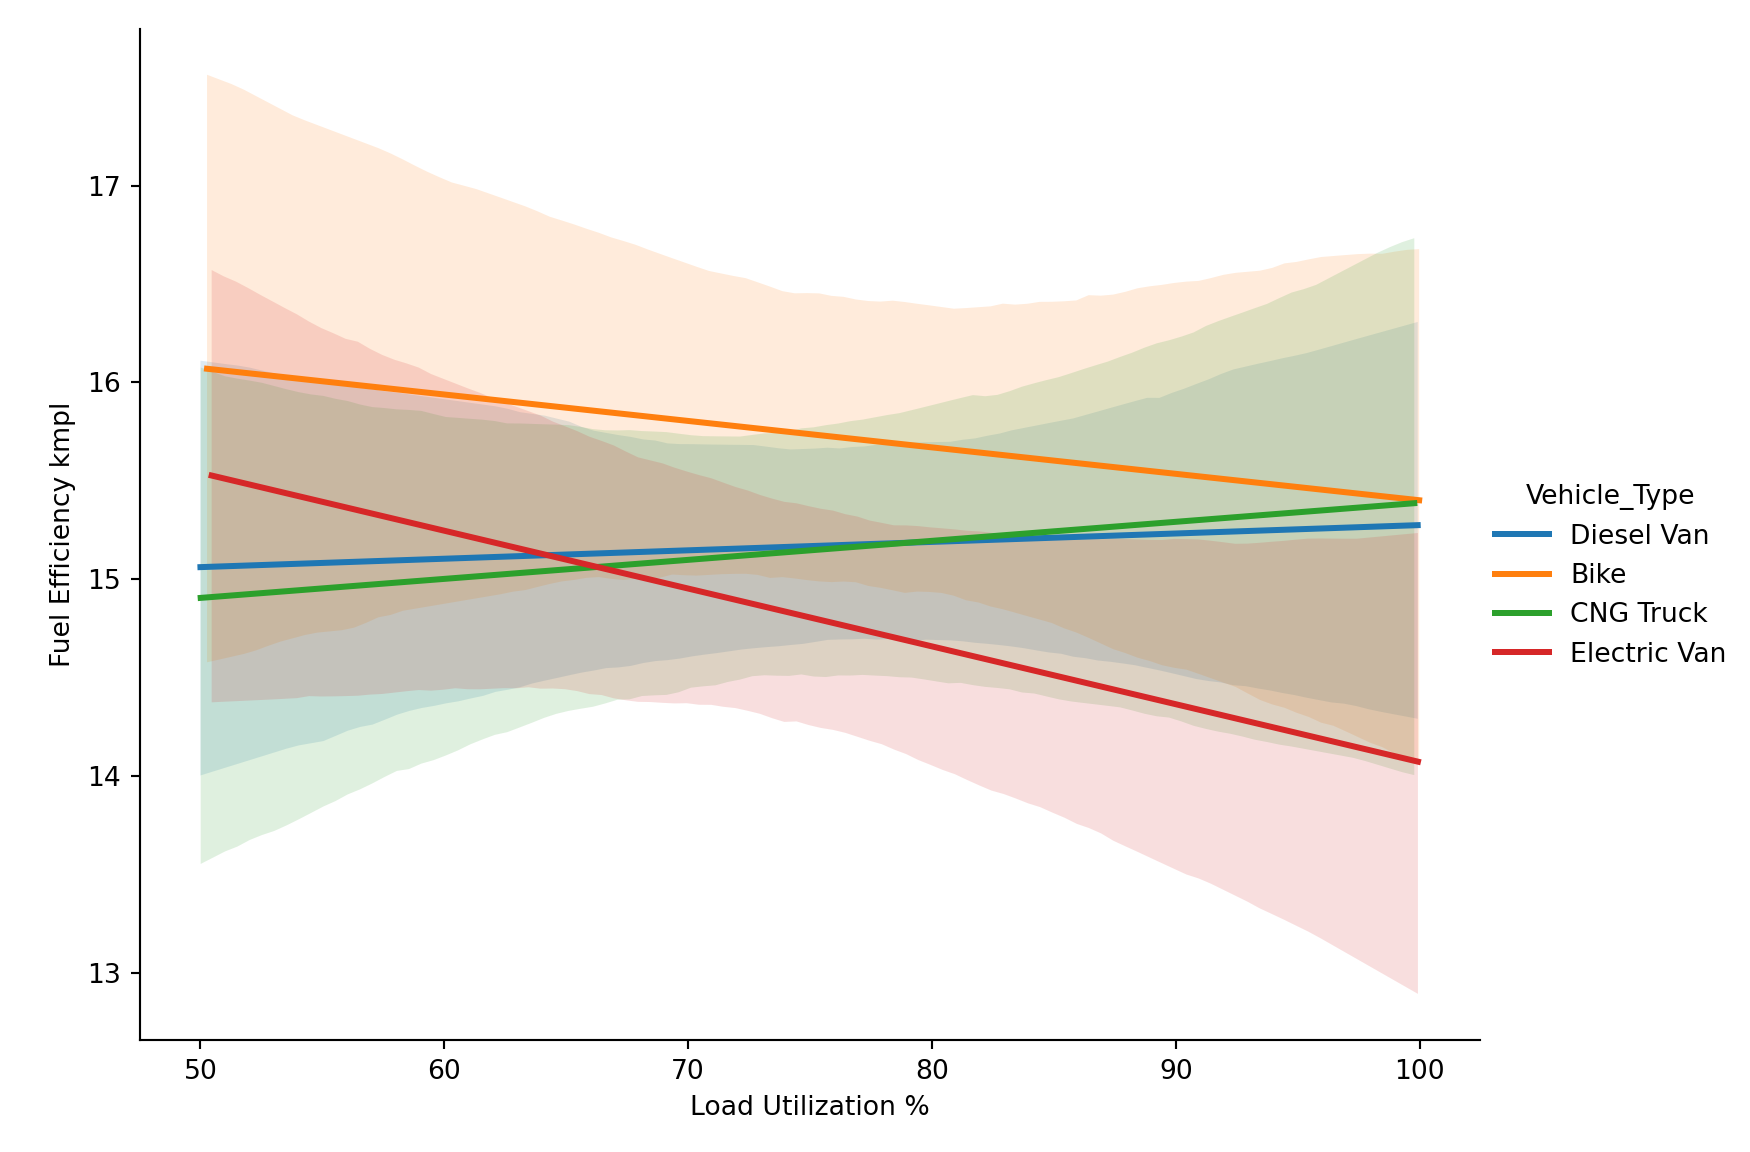
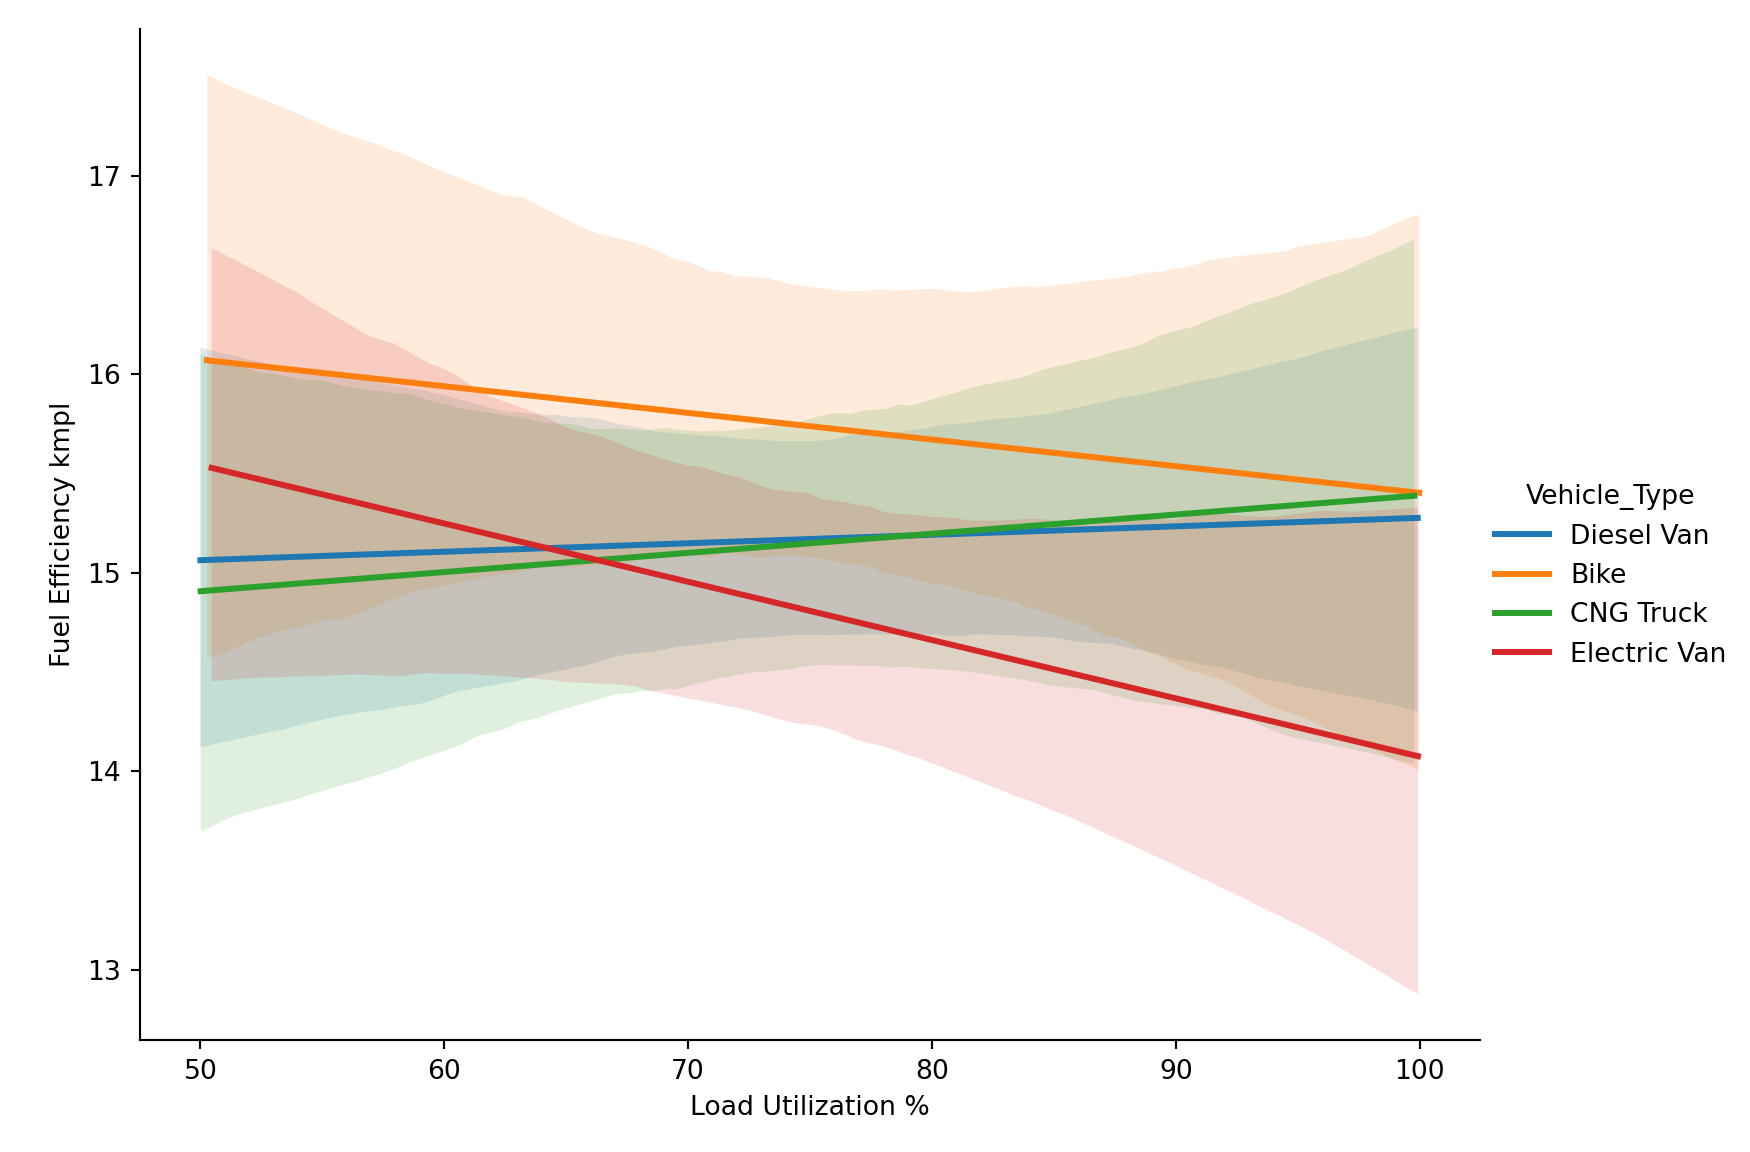
added publications

diff --git a/docs/index.html b/docs/index.html
@@ -276,14 +276,14 @@ $(document).ready(function () {
 
 <p><link rel="stylesheet" href="https://cdnjs.cloudflare.com/ajax/libs/font-awesome/6.5.0/css/all.min.css"></p>
 <p>
-<p><a href="https://www.linkedin.com/in/matthew1webb/">
-<img src="icons/linkedin.png" width="32" style="vertical-align:middle; margin-right:10px;"><a
-href="https://www.linkedin.com/in/matthew1webb/">LinkedIn</a> </a></p>
-<p><a href="https://github.com/Matt-J-W">
-<img src="icons/github.png" width="32" style="vertical-align:middle; margin-right:10px;"><a
-href="https://github.com/Matt-J-W">Github</a> </a></p>
-<a href="mailto:your.email@example.com">
-<img src="icons/email.png" width="32" style="vertical-align:middle;">
+<p><a href="https://www.linkedin.com/in/matthew1webb/" style="display:inline-block; margin-right:20px;">
+<img src="icons/linkedin.png" width="32" style="vertical-align:middle; margin-right:8px;">
+LinkedIn </a></p>
+<p><a href="https://github.com/Matt-J-W" style="display:inline-block; margin-right:20px;">
+<img src="icons/github.png" width="32" style="vertical-align:middle; margin-right:8px;">
+Github </a></p>
+<a href="mailto:your.email@example.com" style="display:inline-block;">
+<img src="icons/email.png" width="32" style="vertical-align:middle; margin-right:8px;">
 Email </a>
 </p>
 <p>I’ve been a data analyst in the NHS for a decade working with many
@@ -303,8 +303,43 @@ data. I know how to handle data quality issues and structure my scripts
 so anyone can run them. My team is responsible for warehousing and
 analysing the largest repository of patient safety incidents in the
 country with over 200,000 incidents reported every month.</p>
-<div id="skills" class="section level2">
-<h2>Skills</h2>
+<div id="skills" class="section level3">
+<h3>Skills</h3>
+<p><strong>Languages &amp; Tools</strong> - Python, RStudio, SAS, SQL,
+HTML, VBA, Tableau, Power BI, Databricks, Pyspark, Postgres, NCDR
+<strong>Statistical Techniques</strong> - Regression Models, Trend
+Analysis, Clustering, Descriptive Tests, ANOVA, T-tests, Chi-squared
+<strong>Data Automation and Publication</strong> - RMarkdown, Quarto,
+TaskSchedular <strong>Data Visualisation</strong> - Tableau, Power BI,
+Ggplot, Matplot, Plotly, Pivot Tables <strong>Scripting</strong> -
+Regex, Text Mining, Script Writing, Data Quality, Data Cleansing
+<strong>Big Data &amp; Cloud Platforms</strong> - Oracle, Azure DevOps,
+Snowflake</p>
+</div>
+<div id="national-publications" class="section level3">
+<h3>National Publications</h3>
+<p><a
+href="https://www.england.nhs.uk/statistics/statistical-work-areas/patient-safety-data/2025-26/quarter-2-2025-26-july-august-september-2025/"><strong>Patient
+Safety Events Data</strong></a> - A quarterly publication I created from
+scratch to publish the progress of our new database, the <a
+href="https://www.england.nhs.uk/patient-safety/patient-safety-insight/learning-from-patient-safety-events/learn-from-patient-safety-events-service/">LFPSE</a>,
+there is a huge amount of of cleansing, preparing and manipulating in
+order to combine multiple data sources and visualise the metrics in the
+desired form.</p>
+<p><a
+href="https://www.england.nhs.uk/long-read/provisional-publication-of-never-events-reported-as-occurring-between-april-2025-and-november-2025/"><strong>Never
+Events</strong></a> - A monthly publication I created to publish
+national never events data, this keeps trusts and the wider NHS up to
+date with their progress on reducing Never Events, which are a very
+high-level incident type that requires close monitoring. I created an
+automated script that completes the end-to-end analysis in one step and
+produces the finished report ready for publication</p>
+<p><a
+href="https://www.england.nhs.uk/statistics/statistical-work-areas/patient-safety-data/2024-25/nrls-to-lfpse-transition-report/"><strong>Transition
+Report</strong></a> - This was a one-off report designed to show the
+transition from the NRLS to LFPSE databases, and how reporting patterns
+and reporting metrics have changed.</p>
+</div>
 <div id="projects-summary" class="section level3">
 <h3>Projects Summary</h3>
 <table>
@@ -357,7 +392,6 @@ inconsistencies or areas for improvement</td>
 </tr>
 </tbody>
 </table>
-</div>
 </div>
 
 
